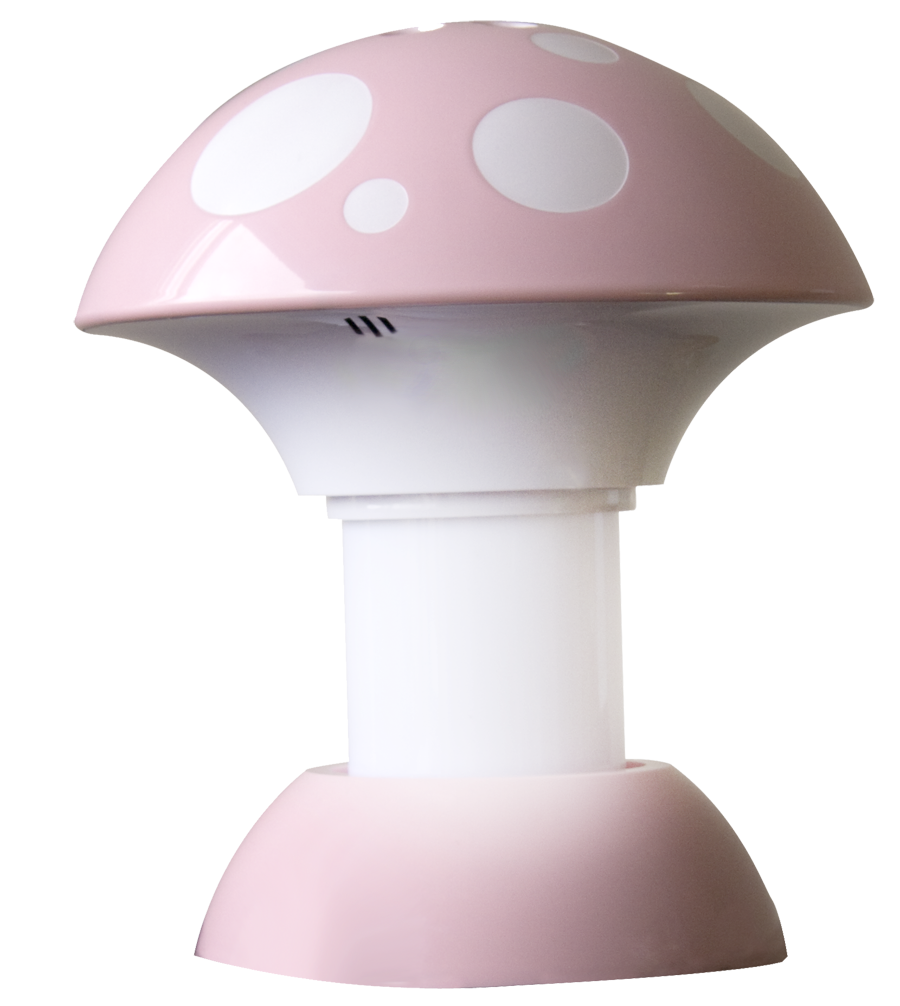
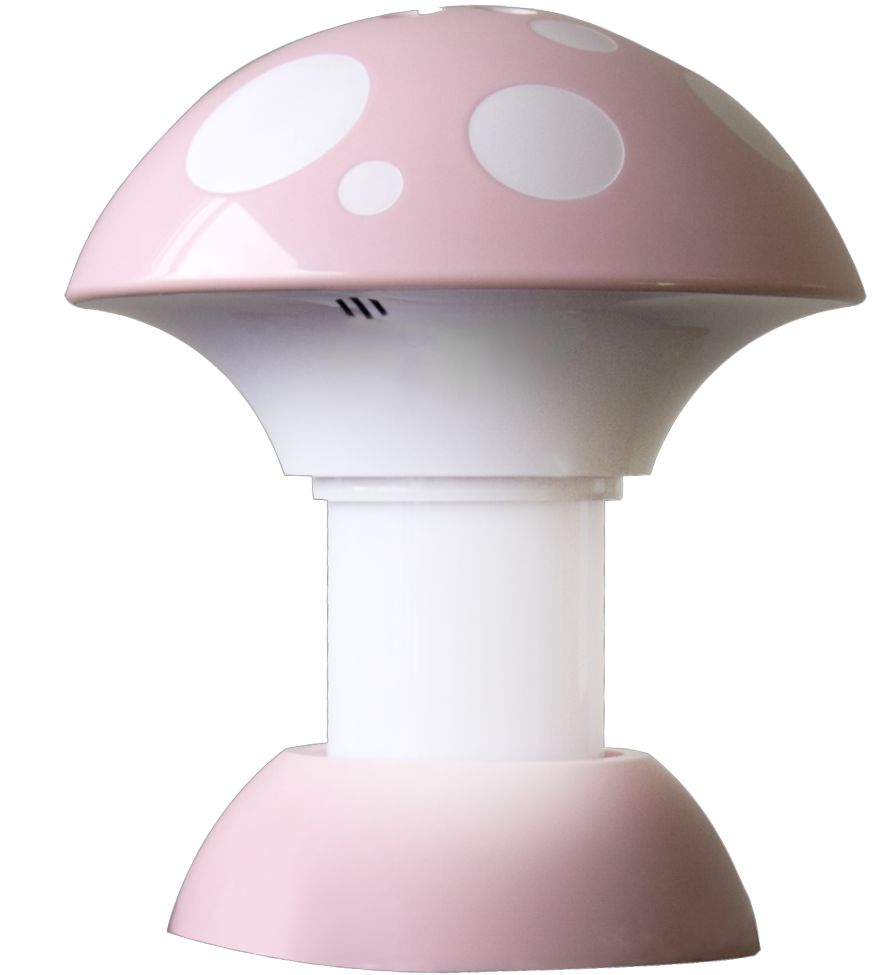
changed the shroom components to render each on click, and edited the images of the lamps

diff --git a/kosher-innovations/src/classes/ShroomCard/index.js b/kosher-innovations/src/classes/ShroomCard/index.js
@@ -1,0 +1,81 @@
+import React from "react";
+import shroomRed from "../../resources/shroom-lamp/red-shroom.png";
+import shroomBlue from "../../resources/shroom-lamp/blue-shroom.png";
+import shroomPink from "../../resources/shroom-lamp/pink-shroom.png";
+
+class ShroomCard extends React.Component {
+  constructor(props) {
+    super(props);
+
+    // Create an array of items
+    this.items = [
+      {
+        id: "red",
+        href: "https://www.1shoppingcart.com/SecureCart/SecureCart.aspx?mid=8C3A2643-E313-4991-9BB0-2D46596FC53F&pid=515cfa6e0de346488d2891efe33e0200",
+        imgSrc: shroomRed,
+        altTag: "Red Mushroom KosherLamp",
+      },
+      {
+        id: "blue",
+        href: "https://www.1shoppingcart.com/SecureCart/SecureCart.aspx?mid=8C3A2643-E313-4991-9BB0-2D46596FC53F&pid=a536c0e0c04845d79935221cc8e5788a",
+        imgSrc: shroomBlue,
+        altTag: "Blue Mushroom KosherLamp",
+      },
+      {
+        id: "pink",
+        href: "https://www.1shoppingcart.com/SecureCart/SecureCart.aspx?mid=8C3A2643-E313-4991-9BB0-2D46596FC53F&pid=6a5f763c161f4fd3bb567442f5628fed",
+        imgSrc: shroomPink,
+        altTag: "Pink Mushroom KosherLamp",
+      },
+    ];
+
+    // Create an array of div elements with click handlers
+    this.divs = this.items.map((item) => {
+      return (
+        <div
+          key={item.id}
+          className="color-picker shroom"
+          id={`shroom-${item.id}`}
+          onClick={() => this.handleClick(item)}
+        ></div>
+      );
+    });
+
+    this.state = {
+      href: "https://www.1shoppingcart.com/SecureCart/SecureCart.aspx?mid=8C3A2643-E313-4991-9BB0-2D46596FC53F&pid=515cfa6e0de346488d2891efe33e0200", // Set the initial href for the add to cart button
+      src: shroomRed,
+      alt: "Red Mushroom KosherLamp",
+    };
+  }
+
+  handleClick(item) {
+    // When a div is clicked, update the href for the add to cart button
+    this.setState({
+      href: item.href,
+      src: item.imgSrc,
+      alt: item.altTag,
+    });
+  }
+
+  render() {
+    return (
+      <>
+        <div className="card">
+          <div className="imgBox">
+            <img src={this.state.src} alt={this.state.alt}></img>
+            <h1>Mushroom KosherLamp</h1>
+          </div>
+          <div className="content">
+            <h3>Click On A Color</h3>
+            <div className="color">{this.divs}</div>
+            <a className="shroom-cart" href={this.state.href}>
+              Add To Cart
+            </a>
+          </div>
+        </div>
+      </>
+    );
+  }
+}
+
+export default ShroomCard;

diff --git a/kosher-innovations/src/components/Products/index.js b/kosher-innovations/src/components/Products/index.js
@@ -5,7 +5,6 @@ import goWash from "../../resources/go-wash/go-wash.png";
 import kosherClock from "../../resources/kosher-clock/kosher-clock.png";
 import fridgeez from "../../resources/fridg-eez/fridg-eez.png";
 import bottleOpener from "../../resources/bottle-opener/bottle-opener.png";
-import shroomLamp from "../../resources/shroom-lamp/red-shroom.png";
 import tissueImg from "../../resources/tissue/tissue.png";
 import alephBetImg from "../../resources/decals/aleph-bet.png";
 import shabTooth from "../../resources/toothbrush/shabbos-toothbrush.png";
@@ -14,7 +13,7 @@ import KmaxCard from "../../classes/KmaxCard";
 import TravelCard from "../../classes/TravelCard";
 import GloveCard from "../../classes/GloveCard";
 import ShisselCard from "../../classes/ShisselCard";
-import ShroomColours from "../../classes/ShroomColours";
+import ShroomCard from "../../classes/ShroomCard";
 import TissueTypes from "../../classes/TissueTypes";
 import DecalTypes from "../../classes/DecalTypes";
 
@@ -91,16 +90,7 @@ const Products = () => {
             <a href="https://www.kosherimage.com/cmd.php?pid=a9f059a9b16d4f12a9f10f188911df3b">Add To Cart</a>
           </div>
         </div>
-        <div className="card">
-          <div className="imgBox">
-            <img src={shroomLamp} alt="mushroom kosher lamp"></img>
-            <h1>Mushroom KosherLamp</h1>
-          </div>
-          <div className="content">
-          <h3>Click On A Color</h3>
-          < ShroomColours />
-          </div>
-        </div>
+        < ShroomCard />
         <div className="card">
           <div className="imgBox">
             <img src={tissueImg} alt="shabbos bathroom tissue"></img>

diff --git a/kosher-innovations/src/index.css b/kosher-innovations/src/index.css
@@ -93,7 +93,8 @@ section {
 /* card section */
 
 #cards {
-  background: linear-gradient(45deg, #000000, #282A3A);
+  /* background: url("resources/grey-spotted-bg.jpg"); */
+  background: url("resources/grey-painted-bg.webp");
 }
 
 section .card {
